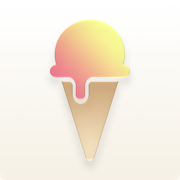
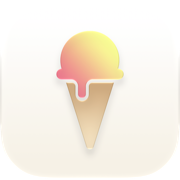
Ícone do app: arquivo original sem corte

Changed region(s): [[0.2778, 0.0833, 0.7222, 0.8889], [0.0, 0.9444, 1.0, 1.0]]

diff --git a/index.html b/index.html
@@ -13,12 +13,12 @@
 <link rel="manifest" href="manifest.json" />
 <link rel="icon" href="icons/favicon-32.png?v=3" sizes="32x32" type="image/png" />
 <link rel="icon" href="icons/favicon-64.png?v=3" sizes="64x64" type="image/png" />
-<link rel="apple-touch-icon" href="icons/apple-touch-icon.png?v=3" />
+<link rel="apple-touch-icon" href="icons/apple-touch-icon.png?v=4" />
 <link rel="preconnect" href="https://fonts.googleapis.com">
 <link rel="preconnect" href="https://fonts.gstatic.com" crossorigin>
 <link href="https://fonts.googleapis.com/css2?family=IBM+Plex+Mono:wght@400;500;600&display=swap" rel="stylesheet">
-<link rel="stylesheet" href="css/estilo.css?v=20261118171424" />
-<link rel="stylesheet" href="css/app.css?v=20261118171424" />
+<link rel="stylesheet" href="css/estilo.css?v=20261118171630" />
+<link rel="stylesheet" href="css/app.css?v=20261118171630" />
 </head>
 <body>
 <header class="barra-topo">
@@ -39,6 +39,6 @@
   <a href="#/receitas" data-aba="receitas" aria-label="Receitas"><svg viewBox="0 0 21.6826 18.1462" fill="currentColor" aria-hidden="true"><path d="M0 16.5153C0 17.3065 0.526178 17.6154 1.1022 17.6154C1.43171 17.6154 1.7156 17.431 2.09476 17.1946C3.17233 16.4728 4.48846 16.0215 5.84047 16.0318C7.25589 16.0318 8.6506 16.5621 9.74525 17.6075C10.1741 17.9991 10.4808 18.1276 10.8413 18.1276C11.2019 18.1276 11.5211 17.997 11.9374 17.6075C13.0342 16.5663 14.4268 16.0318 15.8422 16.0318C17.1942 16.0215 18.5207 16.4728 19.5879 17.1946C19.9649 17.431 20.2509 17.6154 20.5887 17.6154C21.1565 17.6154 21.6826 17.3065 21.6826 16.5153L21.6826 3.26527C21.6826 3.09906 21.6681 2.96219 21.5684 2.79196C20.694 1.28248 18.4971-3.55271e-15 15.8008-3.55271e-15C13.6715-3.55271e-15 11.8298 0.841614 10.8413 2.04269C9.85289 0.841614 8.00907-3.55271e-15 5.88187-3.55271e-15C3.19593-3.55271e-15 0.988634 1.28248 0.114259 2.79196C0.0145711 2.96219 0 3.09906 0 3.26527ZM1.57069 15.6774L1.57069 3.47842C2.36628 2.33543 4.08458 1.56858 5.88187 1.56858C7.74146 1.56858 9.36369 2.34578 10.056 3.54514L10.056 15.848C9.06774 15.0503 7.50741 14.4529 5.88187 14.4529C4.18347 14.4529 2.60877 14.9354 1.57069 15.6774ZM11.6267 15.848L11.6267 3.54514C12.319 2.34578 13.9494 1.56858 15.8008 1.56858C17.596 1.56858 19.3267 2.33543 20.112 3.47842L20.112 15.6774C19.0842 14.9354 17.4992 14.4529 15.8008 14.4529C14.1752 14.4529 12.6231 15.0503 11.6267 15.848Z"/></svg><span>Receitas</span></a>
   <a href="#/biblioteca" data-aba="biblioteca" aria-label="Biblioteca"><svg viewBox="0 0 24.1253 22.2743" fill="currentColor" aria-hidden="true"><path d="M0 19.3516C0 20.853 0.723643 21.6018 2.22941 21.6018L15.5646 21.6018C17.0579 21.6018 17.7816 20.853 17.7816 19.3516L17.7816 2.23976C17.7816 0.746655 17.0579 0 15.5646 0L13.6512 0C12.1454 0 11.4218 0.746655 11.4218 2.23976L11.4218 6.13089C11.2017 6.06838 10.9525 6.03713 10.6802 6.03713L6.43277 6.03713C6.13984 6.03713 5.89062 6.06838 5.68089 6.13089L5.68089 4.946C5.68089 3.4529 4.9469 2.70624 3.46183 2.70624L2.22941 2.70624C0.723643 2.70624 0 3.4529 0 4.946ZM1.47754 19.2336L1.47754 5.06197C1.47754 4.48877 1.77429 4.17343 2.37854 4.17343L3.292 4.17343C3.9066 4.17343 4.20336 4.48877 4.20336 5.06197L4.20336 20.1242L2.37854 20.1242C1.77429 20.1242 1.47754 19.8171 1.47754 19.2336ZM5.68089 20.1242L5.68089 8.39497C5.68089 7.82177 5.97764 7.51467 6.5819 7.51467L10.5208 7.51467C11.1354 7.51467 11.4218 7.82177 11.4218 8.39497L11.4218 20.1242ZM12.8993 20.1242L12.8993 2.35784C12.8993 1.78464 13.2064 1.46719 13.8107 1.46719L15.4052 1.46719C16.0198 1.46719 16.3062 1.78464 16.3062 2.35784L16.3062 19.2336C16.3062 19.8171 16.0198 20.1242 15.4052 20.1242ZM6.55818 9.40411C6.55818 9.74819 6.81524 10.0135 7.17178 10.0135L9.95157 10.0135C10.2978 10.0135 10.5548 9.74819 10.5548 9.40411C10.5548 9.07037 10.2978 8.81543 9.95157 8.81543L7.17178 8.81543C6.81524 8.81543 6.55818 9.07037 6.55818 9.40411ZM6.55818 18.2244C6.55818 18.5685 6.81524 18.8338 7.17178 18.8338L9.95157 18.8338C10.2978 18.8338 10.5548 18.5685 10.5548 18.2244C10.5548 17.8928 10.2978 17.6357 9.95157 17.6357L7.17178 17.6357C6.81524 17.6357 6.55818 17.8928 6.55818 18.2244ZM18.6663 19.6317C18.8549 21.1102 19.6449 21.8092 21.13 21.5916L22.1509 21.4691C23.6463 21.2494 24.2601 20.4654 24.0922 18.9826L22.4154 4.37972C22.2474 2.90731 21.445 2.19593 19.9496 2.41561L18.9308 2.55057C17.425 2.762 16.8009 3.54393 16.977 5.03493ZM20.1107 19.3292L18.4649 4.97071C18.3944 4.39751 18.658 4.07584 19.2622 3.98459L19.9642 3.89314C20.5684 3.80189 20.8983 4.10689 20.9689 4.66763L22.6146 19.0283C22.6852 19.6118 22.4237 19.9314 21.8298 20.0226L21.1072 20.1141C20.5133 20.2053 20.1812 19.9128 20.1107 19.3292Z"/></svg><span>Biblioteca</span></a>
 </nav>
-<script type="module" src="js/app.js?v=20261118171424"></script>
+<script type="module" src="js/app.js?v=20261118171630"></script>
 </body>
 </html>

diff --git a/js/app.js b/js/app.js
@@ -1,20 +1,20 @@
 // Navegação do hub: cada área é uma "tela" escolhida pelo endereço (#/calculadora etc.).
-import { carrega, dados, salva, novoId } from "./dados.js?v=20261118171424";
-import { iniciaSync } from "./sync.js?v=20261118171424";
-import * as inicio from "./telas/inicio.js?v=20261118171424";
-import * as calculadora from "./telas/calculadora.js?v=20261118171424";
-import * as ingredientes from "./telas/ingredientes.js?v=20261118171424";
-import * as embreve from "./telas/embreve.js?v=20261118171424";
-import * as receitas from "./telas/receitas.js?v=20261118171424";
-import * as receita from "./telas/receita.js?v=20261118171424";
-import * as testes from "./telas/testes.js?v=20261118171424";
-import { icone, defineArmazemFotos } from "./visual.js?v=20261118171424";
-import * as loteTela from "./telas/lote.js?v=20261118171424";
-import * as estudo from "./telas/estudo.js?v=20261118171424";
-import * as ideias from "./telas/ideias.js?v=20261118171424";
-import * as ajustes from "./telas/ajustes.js?v=20261118171424";
-import * as biblioteca from "./telas/biblioteca.js?v=20261118171424";
-import * as guia from "./telas/guia.js?v=20261118171424";
+import { carrega, dados, salva, novoId } from "./dados.js?v=20261118171630";
+import { iniciaSync } from "./sync.js?v=20261118171630";
+import * as inicio from "./telas/inicio.js?v=20261118171630";
+import * as calculadora from "./telas/calculadora.js?v=20261118171630";
+import * as ingredientes from "./telas/ingredientes.js?v=20261118171630";
+import * as embreve from "./telas/embreve.js?v=20261118171630";
+import * as receitas from "./telas/receitas.js?v=20261118171630";
+import * as receita from "./telas/receita.js?v=20261118171630";
+import * as testes from "./telas/testes.js?v=20261118171630";
+import { icone, defineArmazemFotos } from "./visual.js?v=20261118171630";
+import * as loteTela from "./telas/lote.js?v=20261118171630";
+import * as estudo from "./telas/estudo.js?v=20261118171630";
+import * as ideias from "./telas/ideias.js?v=20261118171630";
+import * as ajustes from "./telas/ajustes.js?v=20261118171630";
+import * as biblioteca from "./telas/biblioteca.js?v=20261118171630";
+import * as guia from "./telas/guia.js?v=20261118171630";
 
 const TELAS = {
   "": inicio,

diff --git a/js/telas/ajustes.js b/js/telas/ajustes.js
@@ -1,12 +1,12 @@
 // Ajustes: conta (entrar/criar/sair), situação da sincronização e backup em arquivo.
-import { exportaBackup, importaBackup } from "../dados.js?v=20261118171424";
-import { situacao, aoMudar, entrar, criarConta, sair, sincroniza } from "../sync.js?v=20261118171424";
-import { confirma } from "../ui.js?v=20261118171424";
-import { toast } from "../app.js?v=20261118171424";
-import { dados, salva } from "../dados.js?v=20261118171424";
-import { capa, escolheCapa, icone } from "../visual.js?v=20261118171424";
-import { WIDGETS_BIBLIOTECA, capaBiblioteca } from "./biblioteca.js?v=20261118171424";
-import { WIDGETS_HOME, capaHome } from "./inicio.js?v=20261118171424";
+import { exportaBackup, importaBackup } from "../dados.js?v=20261118171630";
+import { situacao, aoMudar, entrar, criarConta, sair, sincroniza } from "../sync.js?v=20261118171630";
+import { confirma } from "../ui.js?v=20261118171630";
+import { toast } from "../app.js?v=20261118171630";
+import { dados, salva } from "../dados.js?v=20261118171630";
+import { capa, escolheCapa, icone } from "../visual.js?v=20261118171630";
+import { WIDGETS_BIBLIOTECA, capaBiblioteca } from "./biblioteca.js?v=20261118171630";
+import { WIDGETS_HOME, capaHome } from "./inicio.js?v=20261118171630";
 
 function esc(s){ return String(s == null ? "" : s).replace(/[&<>"]/g, function(c){ return {"&":"&amp;","<":"&lt;",">":"&gt;",'"':"&quot;"}[c]; }); }
 function hora(iso){ try { return new Date(iso).toLocaleString("pt-BR", {day:"2-digit", month:"short", hour:"2-digit", minute:"2-digit"}); } catch (e) { return ""; } }

diff --git a/js/telas/receita.js b/js/telas/receita.js
@@ -1,11 +1,11 @@
 // Página de uma receita: status, versões, modo de preparo e a receita pronta com escala.
 // Rotas: #/receita/<id> (versões e edição) e #/receita/<id>/pronta (para usar na bancada).
-import { dados, salva, receita, versao, versoesDe, excluiReceita, ingrediente, criaLote } from "../dados.js?v=20261118171424";
-import { icone, capa, aplicaTom, estrelas, escolheCapa, DUREZA, DOCURA, docuraAtual } from "../visual.js?v=20261118171424";
-import { confirma, LAPIS } from "../ui.js?v=20261118171424";
-import { atualizaVoltar } from "../app.js?v=20261118171424";
-import { resumoLote, cartaoLote, dataCurta as dataLote } from "./lote.js?v=20261118171424";
-import { calcula, NOMES_ESTILO, n } from "../calculo.js?v=20261118171424";
+import { dados, salva, receita, versao, versoesDe, excluiReceita, ingrediente, criaLote } from "../dados.js?v=20261118171630";
+import { icone, capa, aplicaTom, estrelas, escolheCapa, DUREZA, DOCURA, docuraAtual } from "../visual.js?v=20261118171630";
+import { confirma, LAPIS } from "../ui.js?v=20261118171630";
+import { atualizaVoltar } from "../app.js?v=20261118171630";
+import { resumoLote, cartaoLote, dataCurta as dataLote } from "./lote.js?v=20261118171630";
+import { calcula, NOMES_ESTILO, n } from "../calculo.js?v=20261118171630";
 
 function esc(s){ return String(s == null ? "" : s).replace(/[&<>"]/g, function(c){ return {"&":"&amp;","<":"&lt;",">":"&gt;",'"':"&quot;"}[c]; }); }
 function dataCurta(iso){

diff --git a/js/telas/lote.js b/js/telas/lote.js
@@ -3,11 +3,11 @@
 //   2. Avaliar (horas depois, após maturar e endurecer): textura, dureza, doçura e nota, por toques.
 // Situações do lote: "em andamento" (preparando) → "aguardando" (falta avaliar) → "concluido".
 // Tudo é salvo a cada toque; se o app fechar, o lote volta onde parou. Tela acesa enquanto aberto.
-import { dados, salva, lote, receita, versao, ingrediente, excluiLote } from "../dados.js?v=20261118171424";
-import { n } from "../calculo.js?v=20261118171424";
-import { confirma } from "../ui.js?v=20261118171424";
-import { atualizaVoltar } from "../app.js?v=20261118171424";
-import { icone, capa, aplicaTom, estrelasEscolha, DUREZA, DOCURA, docuraAtual } from "../visual.js?v=20261118171424";
+import { dados, salva, lote, receita, versao, ingrediente, excluiLote } from "../dados.js?v=20261118171630";
+import { n } from "../calculo.js?v=20261118171630";
+import { confirma } from "../ui.js?v=20261118171630";
+import { atualizaVoltar } from "../app.js?v=20261118171630";
+import { icone, capa, aplicaTom, estrelasEscolha, DUREZA, DOCURA, docuraAtual } from "../visual.js?v=20261118171630";
 
 function esc(s){ return String(s == null ? "" : s).replace(/[&<>"]/g, function(c){ return {"&":"&amp;","<":"&lt;",">":"&gt;",'"':"&quot;"}[c]; }); }
 function hora(iso){ try { return new Date(iso).toLocaleTimeString("pt-BR", {hour:"2-digit", minute:"2-digit"}); } catch (e) { return ""; } }

diff --git a/js/telas/estudo.js b/js/telas/estudo.js
@@ -1,11 +1,11 @@
 // Estudo (redesign): temas agrupados, trazidos do Notion e editáveis no app.
 // Rotas: #/estudo (todos, com busca), #/estudo/grupo/<grupo> (filtrado pela seção vinda da Biblioteca),
 // #/estudo/<id> (tema) e #/estudo/<id>/calculadora (aberto por um gráfico: o voltar leva à calculadora).
-import { dados, salva, paginaEstudo, originalEstudo } from "../dados.js?v=20261118171424";
-import { GRUPOS_ESTUDO } from "../estudo-base.js?v=20261118171424";
-import { mdParaHtml, confirma } from "../ui.js?v=20261118171424";
-import { icone, capa, aplicaTom } from "../visual.js?v=20261118171424";
-import { capaBiblioteca } from "./biblioteca.js?v=20261118171424";
+import { dados, salva, paginaEstudo, originalEstudo } from "../dados.js?v=20261118171630";
+import { GRUPOS_ESTUDO } from "../estudo-base.js?v=20261118171630";
+import { mdParaHtml, confirma } from "../ui.js?v=20261118171630";
+import { icone, capa, aplicaTom } from "../visual.js?v=20261118171630";
+import { capaBiblioteca } from "./biblioteca.js?v=20261118171630";
 
 function esc(s){ return String(s == null ? "" : s).replace(/[&<>"]/g, function(c){ return {"&":"&amp;","<":"&lt;",">":"&gt;",'"':"&quot;"}[c]; }); }
 function normal(t){ return String(t || "").normalize("NFD").replace(/[̀-ͯ]/g, "").toLowerCase(); }

diff --git a/js/telas/calculadora.js b/js/telas/calculadora.js
@@ -1,10 +1,10 @@
 // Calculadora: editor de mistura com balanço ao vivo.
 // Funciona sozinha: o rascunho aberto é salvo automaticamente a cada toque, sem precisar "salvar receita".
 import { calcula, ALVOS, ESCALA, ALVO_FP, ALVO_ESTAB, PRESETS, NOMES_ESTILO,
-         pontoCongelamento, avisos, n, nivelFaixa } from "../calculo.js?v=20261118171424";
-import { icone, capa, aplicaTom } from "../visual.js?v=20261118171424";
-import { confirma, LAPIS } from "../ui.js?v=20261118171424";
-import { dados, salva, ingrediente, receita, versao, versoesDe, criaReceita, novaVersao, ingredientesMudados } from "../dados.js?v=20261118171424";
+         pontoCongelamento, avisos, n, nivelFaixa } from "../calculo.js?v=20261118171630";
+import { icone, capa, aplicaTom } from "../visual.js?v=20261118171630";
+import { confirma, LAPIS } from "../ui.js?v=20261118171630";
+import { dados, salva, ingrediente, receita, versao, versoesDe, criaReceita, novaVersao, ingredientesMudados } from "../dados.js?v=20261118171630";
 
 function esc(s){ return String(s).replace(/[&<>"]/g, function(c){ return {"&":"&amp;","<":"&lt;",">":"&gt;",'"':"&quot;"}[c]; }); }
 

diff --git a/js/telas/ingredientes.js b/js/telas/ingredientes.js
@@ -1,9 +1,9 @@
 // Ingredientes: lista editável. O que é editado aqui aparece no seletor da calculadora.
-import { dados, salva, ingrediente, ingredienteUsado, novoId } from "../dados.js?v=20261118171424";
-import { confirma } from "../ui.js?v=20261118171424";
-import { icone, capa, aplicaTom, escolheCapa } from "../visual.js?v=20261118171424";
-import { TIPOS_ACUCAR } from "../ingredientes-base.js?v=20261118171424";
-import { n } from "../calculo.js?v=20261118171424";
+import { dados, salva, ingrediente, ingredienteUsado, novoId } from "../dados.js?v=20261118171630";
+import { confirma } from "../ui.js?v=20261118171630";
+import { icone, capa, aplicaTom, escolheCapa } from "../visual.js?v=20261118171630";
+import { TIPOS_ACUCAR } from "../ingredientes-base.js?v=20261118171630";
+import { n } from "../calculo.js?v=20261118171630";
 
 function limpaUi(){ document.body.classList.remove("ui", "rec"); document.querySelectorAll(".ui-veu,.ui-folha").forEach(function(x){ x.remove(); }); }
 function esc(s){ return String(s == null ? "" : s).replace(/[&<>"]/g, function(c){ return {"&":"&amp;","<":"&lt;",">":"&gt;",'"':"&quot;"}[c]; }); }

diff --git a/js/telas/ideias.js b/js/telas/ideias.js
@@ -1,9 +1,9 @@
 // Ideias: lista simples (nome, estilo, nota). "Começar receita" abre a calculadora
 // com um rascunho vazio no estilo da ideia, já com o nome dela.
-import { dados, salva, ideia, criaIdeia, receita } from "../dados.js?v=20261118171424";
-import { NOMES_ESTILO } from "../calculo.js?v=20261118171424";
-import { confirma } from "../ui.js?v=20261118171424";
-import { icone, capa, aplicaTom, tomVidro, escolheCapa } from "../visual.js?v=20261118171424";
+import { dados, salva, ideia, criaIdeia, receita } from "../dados.js?v=20261118171630";
+import { NOMES_ESTILO } from "../calculo.js?v=20261118171630";
+import { confirma } from "../ui.js?v=20261118171630";
+import { icone, capa, aplicaTom, tomVidro, escolheCapa } from "../visual.js?v=20261118171630";
 
 function esc(s){ return String(s == null ? "" : s).replace(/[&<>"]/g, function(c){ return {"&":"&amp;","<":"&lt;",">":"&gt;",'"':"&quot;"}[c]; }); }
 const ESTILOS = [["gelato", "Gelato"], ["icecream", "Sorvete"], ["sorbet", "Sorbet"]];

diff --git a/js/telas/inicio.js b/js/telas/inicio.js
@@ -1,9 +1,9 @@
 // Home (redesign): hub com blocos de cada área.
 // Para avaliar (se houver lote esperando) · Calculadora + Ideias/Ingredientes · Receitas (faixa lateral) · Estudo.
-import { dados, receita, versao, versoesDe } from "../dados.js?v=20261118171424";
-import { abreAjustes } from "./ajustes.js?v=20261118171424";
-import { dataCurta } from "./lote.js?v=20261118171424";
-import { icone, capa, tomVidro } from "../visual.js?v=20261118171424";
+import { dados, receita, versao, versoesDe } from "../dados.js?v=20261118171630";
+import { abreAjustes } from "./ajustes.js?v=20261118171630";
+import { dataCurta } from "./lote.js?v=20261118171630";
+import { icone, capa, tomVidro } from "../visual.js?v=20261118171630";
 
 function esc(s){ return String(s == null ? "" : s).replace(/[&<>"]/g, function(c){ return {"&":"&amp;","<":"&lt;",">":"&gt;",'"':"&quot;"}[c]; }); }
 function plural(n, um, varios){ return n + " " + (n === 1 ? um : varios); }

diff --git a/js/telas/receitas.js b/js/telas/receitas.js
@@ -1,8 +1,8 @@
 // Receitas (redesign): testes e finais juntos, com filtro Todas / Em teste / Finais.
 // Rotas: #/receitas, #/receitas/teste, #/receitas/finais (o filtro fica no endereço para o voltar lembrar).
-import { dados, versao, versoesDe, ingrediente } from "../dados.js?v=20261118171424";
-import { NOMES_ESTILO } from "../calculo.js?v=20261118171424";
-import { icone, capa, tomVidro, estrelas } from "../visual.js?v=20261118171424";
+import { dados, versao, versoesDe, ingrediente } from "../dados.js?v=20261118171630";
+import { NOMES_ESTILO } from "../calculo.js?v=20261118171630";
+import { icone, capa, tomVidro, estrelas } from "../visual.js?v=20261118171630";
 
 function esc(s){ return String(s == null ? "" : s).replace(/[&<>"]/g, function(c){ return {"&":"&amp;","<":"&lt;",">":"&gt;",'"':"&quot;"}[c]; }); }
 function normal(t){ return String(t || "").normalize("NFD").replace(/[̀-ͯ]/g, "").toLowerCase(); }

diff --git a/js/dados.js b/js/dados.js
@@ -1,9 +1,9 @@
 // Banco local do app: um único objeto salvo no localStorage a cada mudança.
 // Até a etapa 5 os dados ficam só no aparelho; por isso existe o backup em arquivo.
-import { ING_BASE } from "./ingredientes-base.js?v=20261118171424";
-import { PRESETS } from "./calculo.js?v=20261118171424";
-import { ESTUDO_BASE } from "./estudo-base.js?v=20261118171424";
-import { notificaMudanca } from "./sync.js?v=20261118171424";
+import { ING_BASE } from "./ingredientes-base.js?v=20261118171630";
+import { PRESETS } from "./calculo.js?v=20261118171630";
+import { ESTUDO_BASE } from "./estudo-base.js?v=20261118171630";
+import { notificaMudanca } from "./sync.js?v=20261118171630";
 
 const CHAVE = "icelab-v1";
 const LEGADO = {calc:"mistura-v1", produtos:"mistura-produtos-v1", receitas:"mistura-receitas-v1"};
